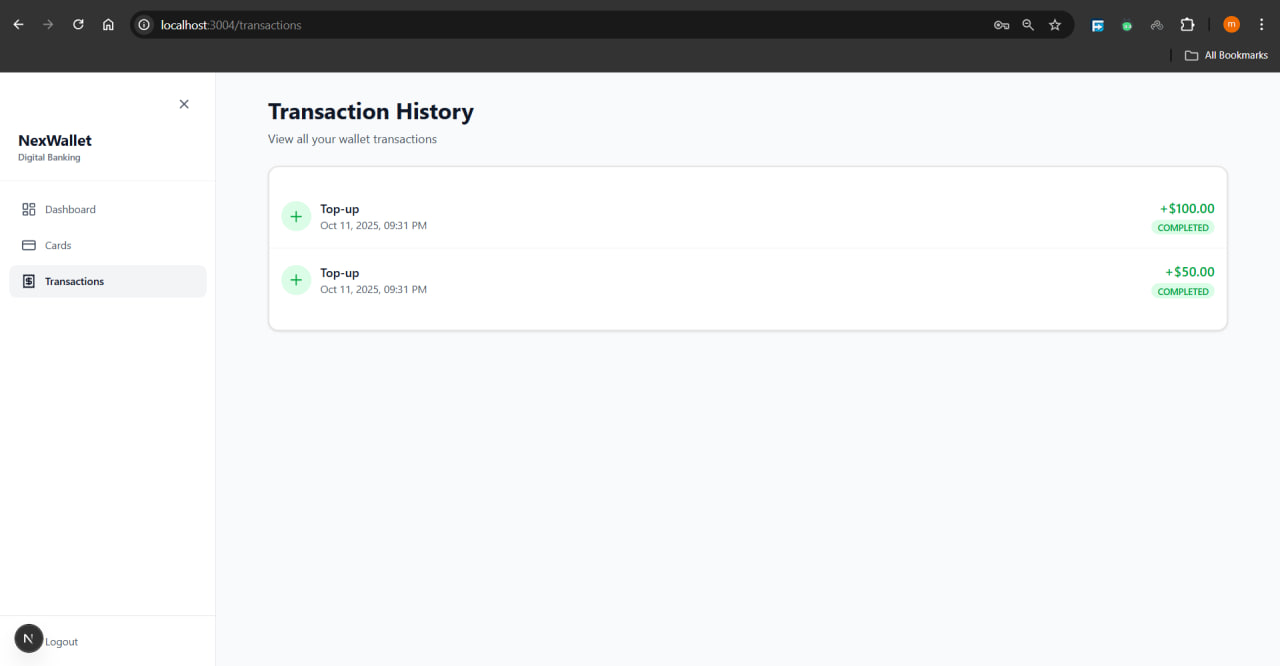
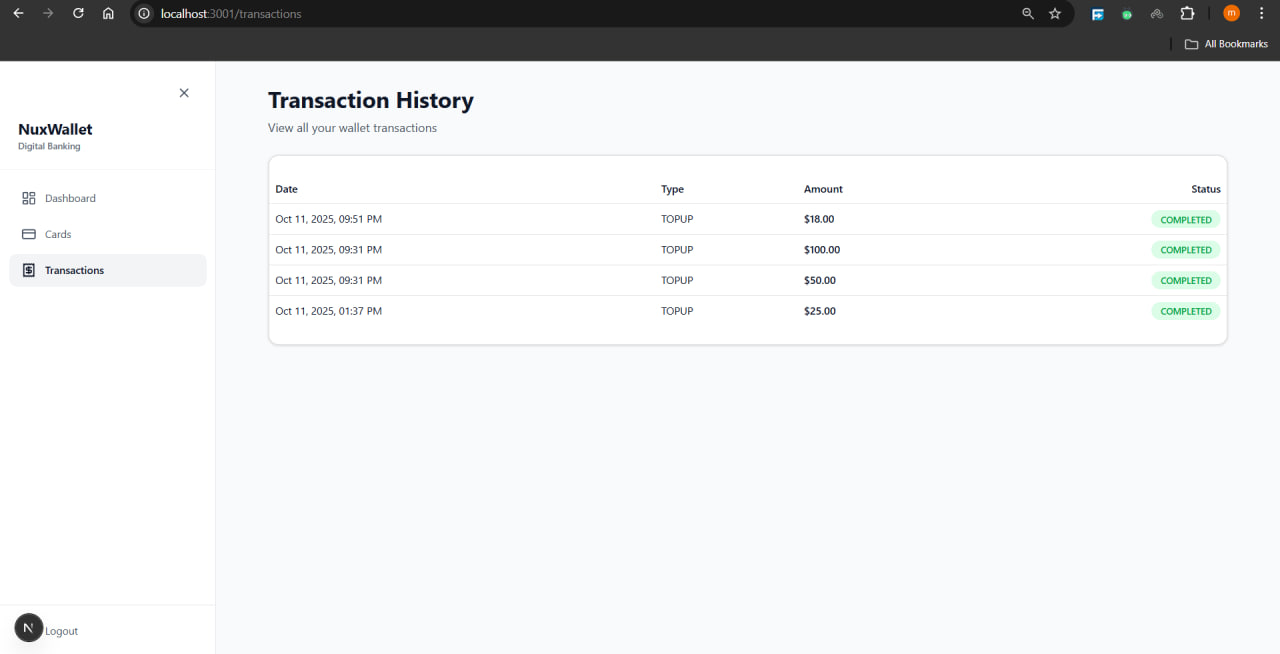
fixed transaction history table for better UI

diff --git a/src/app/components/TransactionHistory.tsx b/src/app/components/TransactionHistory.tsx
@@ -61,65 +61,70 @@ export default function TransactionHistory({
         {transactions.length === 0 ? (
           <div className="text-center py-12">
             <div className="w-16 h-16 rounded-full bg-gray-100 dark:bg-gray-800 flex items-center justify-center mx-auto mb-4">
-              <svg className="w-8 h-8 text-gray-400" fill="none" viewBox="0 0 24 24" stroke="currentColor">
-                <path strokeLinecap="round" strokeLinejoin="round" strokeWidth={2} d="M9 12h6m-6 4h6m2 5H7a2 2 0 01-2-2V5a2 2 0 012-2h5.586a1 1 0 01.707.293l5.414 5.414a1 1 0 01.293.707V19a2 2 0 01-2 2z" />
+              <svg
+                className="w-8 h-8 text-gray-400"
+                fill="none"
+                viewBox="0 0 24 24"
+                stroke="currentColor"
+              >
+                <path
+                  strokeLinecap="round"
+                  strokeLinejoin="round"
+                  strokeWidth={2}
+                  d="M9 12h6m-6 4h6m2 5H7a2 2 0 01-2-2V5a2 2 0 012-2h5.586a1 1 0 01.707.293l5.414 5.414a1 1 0 01.293.707V19a2 2 0 01-2 2z"
+                />
               </svg>
             </div>
-            <p className="text-gray-600 dark:text-gray-400">No transactions yet</p>
+            <p className="text-gray-600 dark:text-gray-400">
+              No transactions yet
+            </p>
           </div>
         ) : (
-          <div className="divide-y divide-gray-100 dark:divide-gray-900">
-            {transactions.map((transaction, index) => (
-              <div
-                key={transaction.id}
-                className="p-4 hover:bg-gray-50 dark:hover:bg-gray-900/50 transition-colors"
-              >
-                <div className="flex items-center justify-between">
-                  <div className="flex items-center gap-3">
-                    <div className={`w-10 h-10 rounded-full flex items-center justify-center ${
-                      transaction.type === "TOPUP" 
-                        ? "bg-green-100 dark:bg-green-950" 
-                        : "bg-red-100 dark:bg-red-950"
-                    }`}>
-                      {transaction.type === "TOPUP" ? (
-                        <svg className="w-5 h-5 text-green-600 dark:text-green-400" fill="none" viewBox="0 0 24 24" stroke="currentColor">
-                          <path strokeLinecap="round" strokeLinejoin="round" strokeWidth={2} d="M12 4v16m8-8H4" />
-                        </svg>
-                      ) : (
-                        <svg className="w-5 h-5 text-red-600 dark:text-red-400" fill="none" viewBox="0 0 24 24" stroke="currentColor">
-                          <path strokeLinecap="round" strokeLinejoin="round" strokeWidth={2} d="M20 12H4" />
-                        </svg>
-                      )}
-                    </div>
-                    <div>
-                      <p className="font-medium text-gray-900 dark:text-white">
-                        {transaction.type === "TOPUP" ? "Top-up" : "Withdrawal"}
-                      </p>
-                      <p className="text-sm text-gray-600 dark:text-gray-400">
-                        {formatDate(transaction.createdAt)}
-                      </p>
-                    </div>
-                  </div>
-                  <div className="text-right">
-                    <p className={`text-lg font-semibold ${
-                      transaction.type === "TOPUP" 
-                        ? "text-green-600 dark:text-green-400" 
-                        : "text-red-600 dark:text-red-400"
-                    }`}>
-                      {transaction.type === "TOPUP" ? "+" : "-"}{formatCurrency(transaction.amount)}
-                    </p>
+          <Table>
+            <TableHeader>
+              <TableRow>
+                <TableHead className="font-semibold text-gray-900 dark:text-white">
+                  Date
+                </TableHead>
+                <TableHead className="font-semibold text-gray-900 dark:text-white">
+                  Type
+                </TableHead>
+                <TableHead className="font-semibold text-gray-900 dark:text-white">
+                  Amount
+                </TableHead>
+                <TableHead className="font-semibold text-gray-900 dark:text-white text-right">
+                  Status
+                </TableHead>
+              </TableRow>
+            </TableHeader>
+            <TableBody>
+              {transactions.map((transaction) => (
+                <TableRow
+                  key={transaction.id}
+                  className="hover:bg-gray-50 dark:hover:bg-gray-900/50"
+                >
+                  <TableCell className="text-gray-900 dark:text-white">
+                    {formatDate(transaction.createdAt)}
+                  </TableCell>
+                  <TableCell className="text-gray-900 dark:text-white uppercase text-sm">
+                    {transaction.type}
+                  </TableCell>
+                  <TableCell className="text-gray-900 dark:text-white font-medium">
+                    {formatCurrency(transaction.amount)}
+                  </TableCell>
+                  <TableCell className="text-right">
                     <span
-                      className={`inline-block px-2 py-0.5 text-xs font-medium rounded-full ${getStatusColor(
+                      className={`inline-block px-3 py-1 text-xs font-semibold rounded-full uppercase ${getStatusColor(
                         transaction.status
                       )}`}
                     >
                       {transaction.status}
                     </span>
-                  </div>
-                </div>
-              </div>
-            ))}
-          </div>
+                  </TableCell>
+                </TableRow>
+              ))}
+            </TableBody>
+          </Table>
         )}
       </CardContent>
     </Card>
